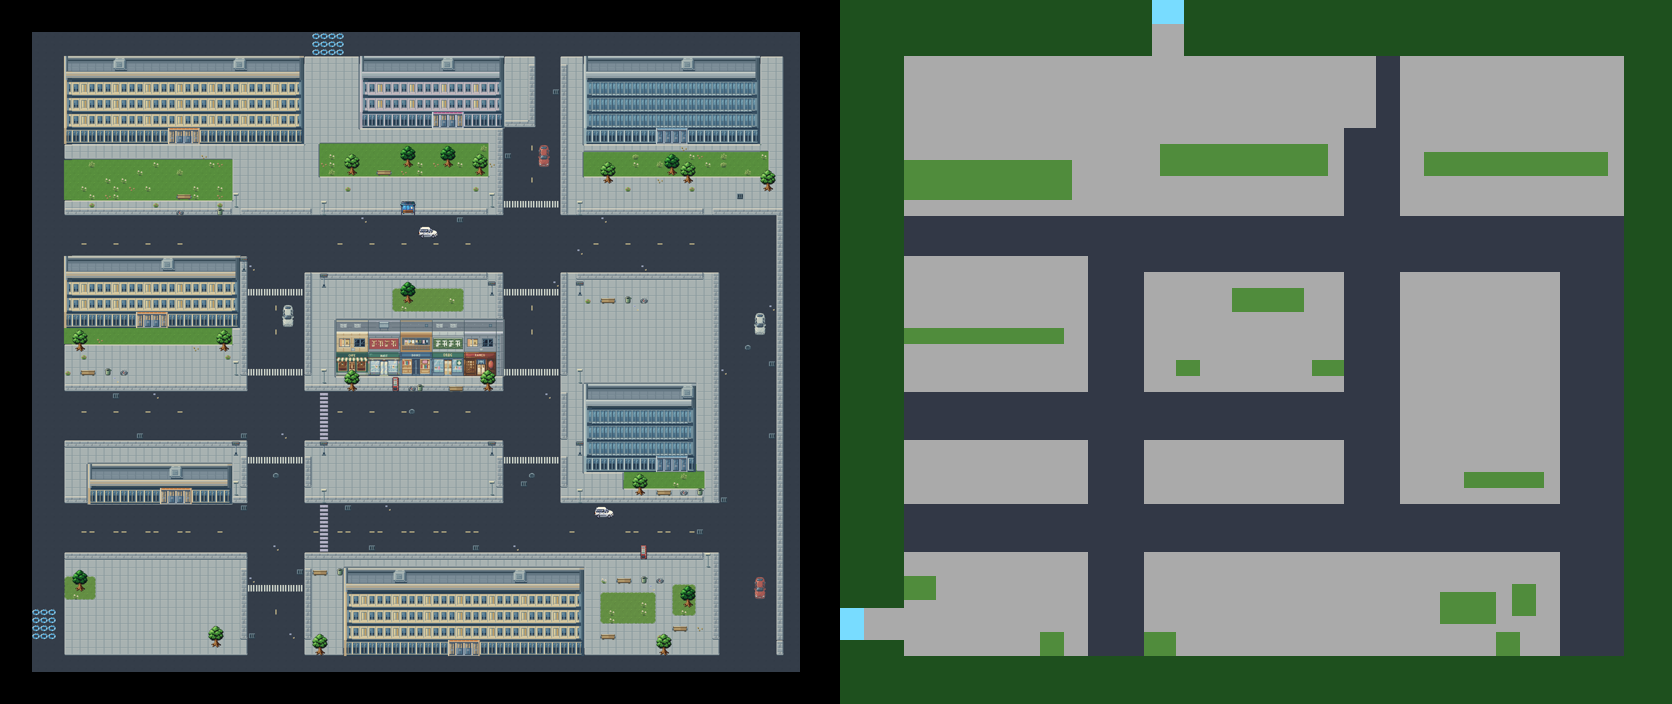
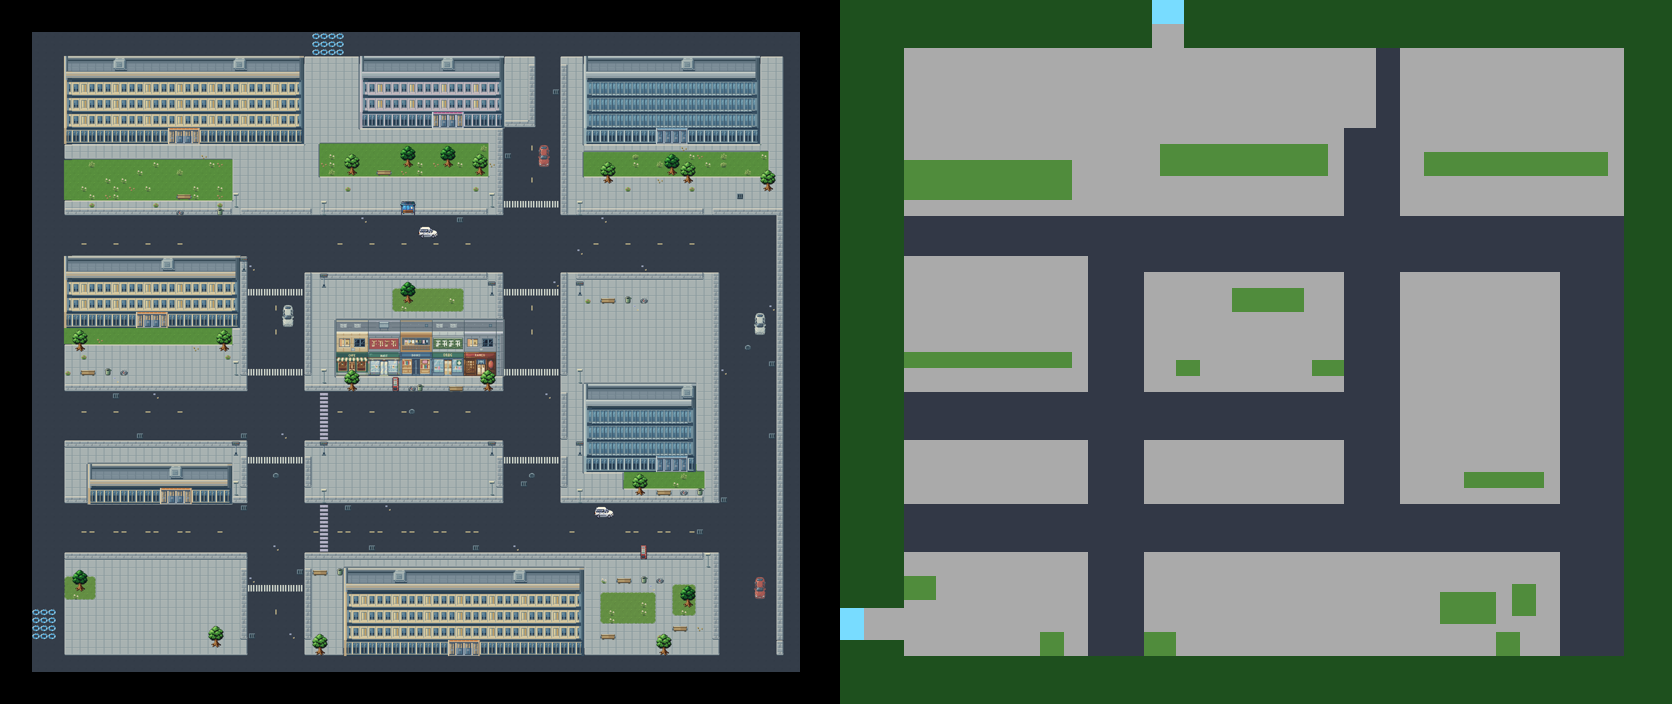
Karte 36: vollstaendige beige Haelften, Karte an hoehere Bloecke angepasst, lila Haelfte neu beauftragt
Claude-Session: https://claude.ai/code/session_01SaoYHKhnro4LFcPJqjaPsq

Changed region(s): [[0.5287, 0.0625, 0.9641, 0.0938], [0.5287, 0.4688, 0.6531, 0.5312]]

diff --git a/tools/karte36_objekte.py b/tools/karte36_objekte.py
@@ -37,22 +37,22 @@ BUSCH = ['k01/baum%02d' % i for i in (12, 13, 14)]                             #
 
 # Gebaeude: (sprite, Mitte x in px, Fusszeile, spiegeln) - Flaechen der Vorlage, an die Sprite-Hoehen angepasst
 GEBAEUDE = [                                   # (sprite, Mitte x in px, Fusszeile, spiegeln) - Vorlagenkacheln
-    ('gross/wohn_oben', 304, 13, False),       # langer beiger Block oben links (Haelfte gespiegelt)
+    ('gross/wohn_oben', 304, 14, False),       # langer beiger Block oben links (Haelfte gespiegelt)
     ('gross/lila', 800, 11, False),            # lila Haus oben Mitte
     ('gross/buero_mitte', 1272, 13, False),    # Glasbuero oben rechts (Karte 35, Kanten repariert)
-    ('gross/wohn_links', 240, 36, False),      # beiger Block links Mitte
+    ('gross/wohn_links', 240, 39, False),      # beiger Block links Mitte
     ('k30/buero_glas', 1216, 54, False),       # Glasbuero rechts Mitte (Karte 30)
     ('gross/flach', 256, 58, False),           # flacher Ladenbau links unten
     ('gross/wohn_unten', 864, 77, False),      # langer beiger Block unten
 ]
 LAEDEN = ['k31/laden_2', 'k31/laden_0', 'k31/laden_7', 'k31/laden_1']   # Cafe, Mart, Drogerie, Ramen (Karte 31)
 LAEDEN_MITTE, LAEDEN_FUSS = 744, 43
-BAEUME = [(40, 16), (47, 16), (52, 16), (56, 16), (72, 16), (80, 16), (85, 16), (90, 17), (47, 33), (6, 37), (24, 37),
+BAEUME = [(40, 16), (47, 16), (52, 16), (56, 16), (72, 16), (80, 16), (85, 16), (90, 17), (47, 33), (6, 41), (24, 41),
           (39, 41), (56, 41), (76, 55), (5, 69), (22, 75), (36, 75), (79, 75), (81, 70)]
 LATERNEN = [(25, 20), (57, 20), (68, 21), (25, 41), (36, 42), (68, 41), (25, 57), (84, 65)]
-BAENKE = [(19, 20), (72, 31), (6, 42), (79, 56), (36, 67), (73, 73)]
-MOEBEL = [('k18s/41', 47, 22), ('k18s/00', 45, 44), ('k18s/00', 76, 65), ('k18s/12', 9, 42), ('k18s/12', 38, 67),
-          ('k18s/04', 11, 42), ('k18s/04', 79, 31)]
+BAENKE = [(19, 20), (72, 31), (15, 43), (79, 56), (36, 67), (73, 73)]
+MOEBEL = [('k18s/41', 47, 22), ('k18s/00', 45, 44), ('k18s/00', 76, 65), ('k18s/12', 9, 43), ('k18s/12', 38, 67),
+          ('k18s/04', 11, 43), ('k18s/04', 79, 31)]
 # Fahrzeuge (Linksverkehr): waagerecht Nordspur nach Osten (Van gespiegelt), senkrecht Ostspur nach Sueden (k18a/06)
 AUTOS = [('k18a/06', 1024, 270, False), ('k18a/11', 792, 408, True), ('k18a/06', 512, 588, False),
          ('k18a/06', 1464, 600, False), ('k18a/11', 1144, 975, True), ('k18a/06', 1464, 1120, False)]
@@ -118,10 +118,10 @@ def main():
         os.makedirs(os.path.dirname(ziel), exist_ok=True)
         shutil.copy(os.path.join(ROOT, 'assets', 'objekte', quelle), ziel)
     kanten_ergaenzen('gross_buero_mitte/00.png', 'gross/buero_mitte.png')   # Kanten waren abgeschnitten (Karte 35)
-    halb_gespiegelt('gross_beige_halb_hoch/00.png', 'gross/wohn_oben.png', 240, eingang=False)   # Vorlagenbreiten
-    halb_gespiegelt('gross_beige_halb_hoch/00.png', 'gross/wohn_unten.png', 240, eingang=False)
-    halb_gespiegelt('gross_beige_halb_flach/00.png', 'gross/wohn_links.png', 176, eingang=False)
-    halb_gespiegelt('gross_lila_halb/00.png', 'gross/lila.png', 144, eingang=False)
+    halb_gespiegelt('gross_beige_halb_hoch_b/00.png', 'gross/wohn_oben.png', 240, eingang=False)   # Vorlagenbreiten
+    halb_gespiegelt('gross_beige_halb_hoch_b/00.png', 'gross/wohn_unten.png', 240, eingang=False)
+    halb_gespiegelt('gross_beige_halb_flach_b/00.png', 'gross/wohn_links.png', 176, eingang=False)
+    halb_gespiegelt('gross_lila_halb_b/00.png', 'gross/lila.png', 144, eingang=False)
     halb_gespiegelt('gross_flach_halb/00.png', 'gross/flach.png', 144, eingang=False)
     os.makedirs(os.path.join(OBJ, 'gross'), exist_ok=True)
     objekte, rects = [], []                                      # rects: (x0, y0, x1, y1, art, fuss_y)

diff --git a/tools/karte36_layout.py b/tools/karte36_layout.py
@@ -20,7 +20,7 @@ KARTE = os.path.join(ROOT, 'maps', 'karte36')
 VORLAGE = os.path.join(ROOT, 'assets', 'vorlagen', 'karte36_vorlage.png')
 C, R, T = 96, 80, 16
 RAND = 4                                                          # Baumguertel ringsum (Kacheln, Nutzer)
-STADT = (4, 3, 93, 77)                                            # Stadtflaeche der Vorlage (x0, y0, x1, y1)
+STADT = (4, 2, 93, 77)                                            # Stadtflaeche (oben eine Reihe mehr: Bloecke hoeher)
 AUSGAENGE = [(35, 0, 4, 3), (0, 72, 3, 4)]                        # (x, y, b, h): oben, links (Vorlage)
 # Zebrastreifen (x0, x1, y0, y1, art): 'h' = quer ueber eine Nord-Sued-Strasse, 'v' = quer ueber eine Ost-West-Strasse
 ZEBRA = [(59, 65, 21, 21, 'h'), (27, 33, 32, 32, 'h'), (27, 33, 42, 42, 'h'), (27, 33, 53, 53, 'h'),
@@ -32,7 +32,7 @@ STRASSEN_V = [(27, 33, 28, 77), (59, 65, 3, 77), (86, 93, 23, 77)]
 # Gebaeude: Name -> (x0, y0, x1, y1) Grundflaeche der Vorlage in Kacheln (Fusszeile = y1)
 GEBAEUDE = {
     'wohn_oben': (4, 3, 33, 13), 'lila': (41, 3, 58, 11), 'glas_oben': (69, 3, 90, 13),
-    'wohn_links': (4, 28, 25, 36), 'laeden': (38, 36, 58, 43), 'glas_rechts': (69, 44, 82, 54),
+    'wohn_links': (4, 28, 25, 39),                               # Block hoeher als die Vorlage: Fuss 3 Reihen tiefer 'laeden': (38, 36, 58, 43), 'glas_rechts': (69, 44, 82, 54),
     'flach': (7, 54, 24, 58), 'wohn_unten': (39, 67, 68, 77),
 }
 # Beete unter Baeumen, die in der Vorlage auf dem Gehweg stehen (3x2, Baum mittig auf dem Gruen)
@@ -67,6 +67,9 @@ def main():
         k[y0:y1 + 1, x0:x1 + 1] = 'g'
     for (x0, y0, x1, y1) in BEETE:
         k[y0:y1 + 1, x0:x1 + 1] = 'n'
+    k[2, 4:94][k[2, 4:94] == 'a'] = 'g'                               # oberste Stadtreihe Gehweg hinter den Bloecken
+    k[37:39, 4:26][k[37:39, 4:26] == 'n'] = 'g'                       # Gruenstreifen vor den linken Block verlegt
+    k[40:42, 4:25] = 'n'
     k = l34.zipfel_weg(k, 'gn')
     k = l34.kleine_weg(k, 'n', 6, 'g')
     x0, y0, x1, y1 = STADT

diff --git a/tools/pixellab_gross.py b/tools/pixellab_gross.py
@@ -266,6 +266,10 @@ for _n, _gr in (('beige_halb_hoch', (288, 232)), ('beige_halb_flach', (288, 200)
         groesse=_gr, text=AUFTRAEGE['k36_' + _n]['text'] + ' The complete roof edge is visible at the top and the complete '
         'grey base plinth at the bottom, with empty magenta space above the roof and below the base.')
 
+AUFTRAEGE['k36_lila_halb_b'] = dict(AUFTRAEGE['k36_lila_halb'], ziel='assets/objekte/karte36/gross_lila_halb_b',
+    groesse=(160, 200), text=AUFTRAEGE['k36_lila_halb']['text'] + ' The complete roof edge is visible at the top and the '
+    'complete grey base plinth at the bottom, with empty magenta space above the roof and below the base.')
+
 
 def main(name):
     a = AUFTRAEGE[name]
